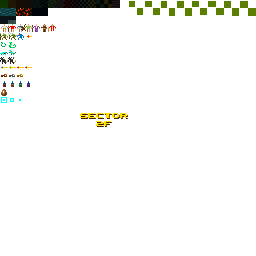
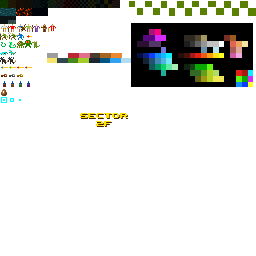
some sprites..

Changed region(s): [[0.1562, 0.0625, 1.0, 0.3438], [0.0625, 0.1562, 0.1562, 0.1875]]

diff --git a/core/src/com/dg/ssrl/Assets.java b/core/src/com/dg/ssrl/Assets.java
@@ -81,8 +81,9 @@ public class Assets {
 
         font = new BitmapFont(Gdx.files.internal("kongtext.fnt"));
 
-        monsterSprites.put(MonsterType.Snake, tiles[5][1]);
-        monsterSprites.put(MonsterType.Rat, tiles[7][1]);
+        monsterSprites.put(MonsterType.Snake, tiles[5][2]);
+        monsterSprites.put(MonsterType.Rat, tiles[5][4]);
+        monsterSprites.put(MonsterType.Alien, tiles[5][3]);
         monsterSprites.put(MonsterType.Egg, tiles[11][0]);
 
         itemSprites.put(ItemType.Key, tiles[9][0]);

diff --git a/core/src/com/dg/ssrl/MonsterType.java b/core/src/com/dg/ssrl/MonsterType.java
@@ -7,11 +7,12 @@ public enum MonsterType {
     Player(Actor.Speed.MEDIUM, 3, true),
     Snake(Actor.Speed.SLOW, 2, false),
     Rat(Actor.Speed.FAST, 1, true),
+    Alien(Actor.Speed.MEDIUM, 3, false),
     Egg(Actor.Speed.SLOW, 3, true),
     ;
 
     public static MonsterType[] ENEMIES = {
-            Snake, Rat, Egg
+            Snake, Rat, Egg, Alien
     };
 
     public final Actor.Speed speed;
